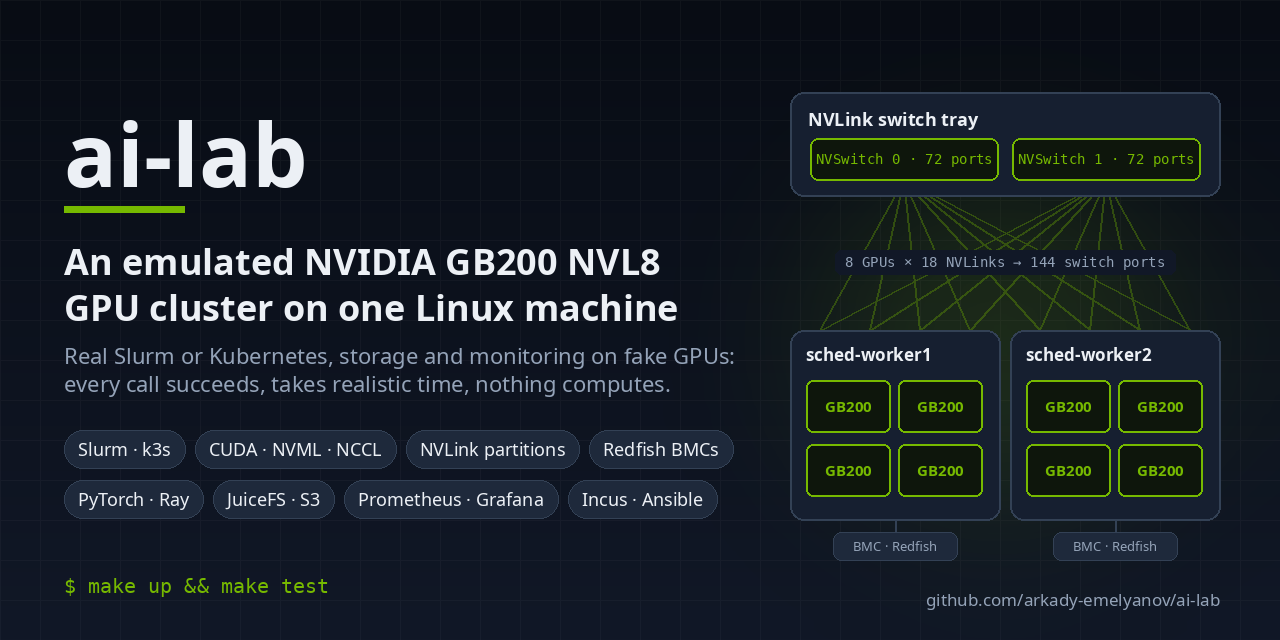
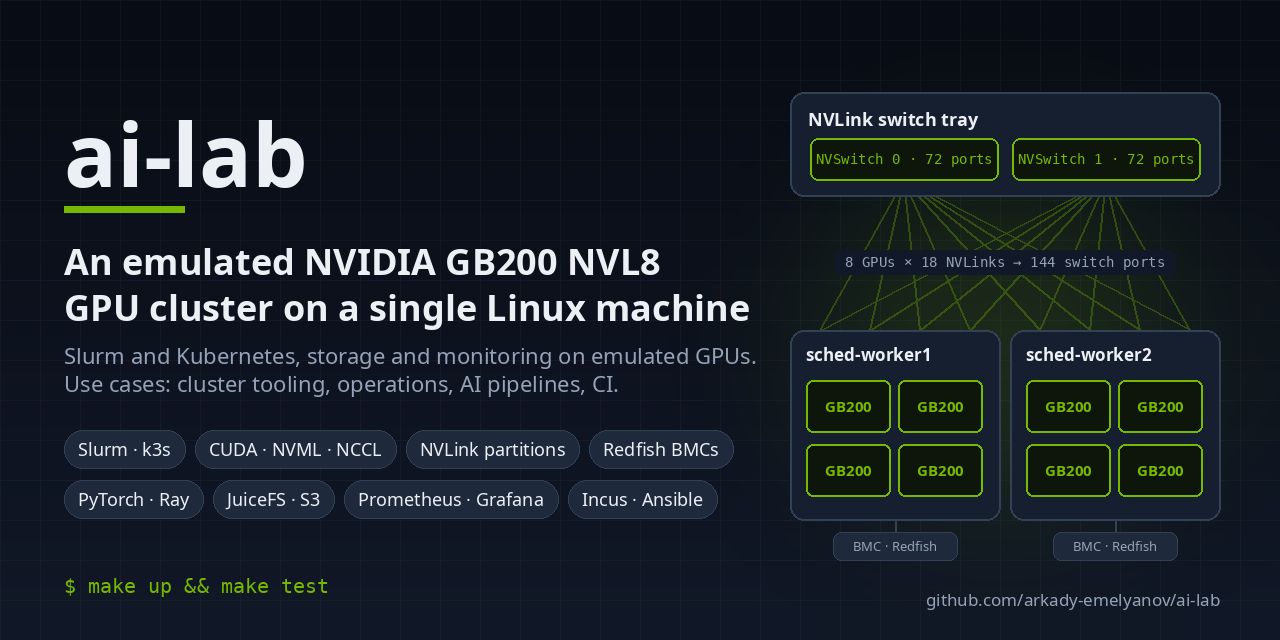
README and preview: requirements as a list, new tagline
- Requirements in the quickstart as bullet points
- Social preview: Slurm and Kubernetes, use cases line
- "a single Linux machine/host" throughout

Changed region(s): [[0.0312, 0.4688, 0.5938, 0.625]]

diff --git a/docs/assets/social-preview.py b/docs/assets/social-preview.py
@@ -106,9 +106,9 @@ def main():
     d.text((x, 92), "ai-lab", font=bold(88), fill=TEXT)
     d.rectangle([x, 206, x + 120, 212], fill=GREEN)
     d.text((x, 236), "An emulated NVIDIA GB200 NVL8", font=bold(36), fill=TEXT)
-    d.text((x, 282), "GPU cluster on one Linux machine", font=bold(36), fill=TEXT)
-    d.text((x, 340), "Real Slurm or Kubernetes, storage and monitoring on fake GPUs:", font=regular(22), fill=MUTED)
-    d.text((x, 368), "every call succeeds, takes realistic time, nothing computes.", font=regular(22), fill=MUTED)
+    d.text((x, 282), "GPU cluster on a single Linux machine", font=bold(36), fill=TEXT)
+    d.text((x, 340), "Slurm and Kubernetes, storage and monitoring on emulated GPUs.", font=regular(22), fill=MUTED)
+    d.text((x, 368), "Use cases: cluster tooling, operations, AI pipelines, CI.", font=regular(22), fill=MUTED)
 
     f = regular(18)
     rows = [["Slurm · k3s", "CUDA · NVML · NCCL", "NVLink partitions", "Redfish BMCs"],

diff --git a/README.md b/README.md
@@ -4,7 +4,7 @@
 
 > **Independent research project, not affiliated with or endorsed by NVIDIA.** It emulates NVIDIA hardware and software interfaces in software, for personal research and education. See [Disclaimer](#disclaimer).
 
-A complete GPU cluster on one Linux machine, for building and testing cluster software, self-service tooling and operations without GPUs. It emulates one NVIDIA GB200-class **NVL8** NVLink domain (two GPU trays with four GPUs each, an NVLink switch tray, BMCs, an InfiniBand fabric) and runs the real software stack around it: Slurm with accounting or Kubernetes (k3s) with Kueue, LDAP identity, shared and object storage, Prometheus and Grafana.
+A complete GPU cluster on a single Linux machine, for building and testing cluster software, self-service tooling and operations without GPUs. It emulates one NVIDIA GB200-class **NVL8** NVLink domain (two GPU trays with four GPUs each, an NVLink switch tray, BMCs, an InfiniBand fabric) and runs the real software stack around it: Slurm with accounting or Kubernetes (k3s) with Kueue, LDAP identity, shared and object storage, Prometheus and Grafana.
 
 The GPUs are fake but behave like real ones to everything above them: applications launched through Slurm or Kubernetes initialise PyTorch, NCCL or Ray, every call succeeds and takes realistic simulated time, and the GPUs report realistic load, memory, power and temperature. Nothing is computed. Management interfaces (Redfish BMCs, an NVLink partition controller, fabric telemetry) change what the GPUs report and what the scheduler places jobs on.
 
@@ -23,13 +23,15 @@ What you get:
 - **AI pipelines:** run PyTorch DDP and Ray jobs end to end on 8 GPUs with realistic timing and memory accounting, to test orchestration, data movement and failure handling rather than numerics.
 - **CI for infrastructure code:** `make up && make test` builds and verifies the whole cluster from scratch on one machine.
 
-## Architecture
-
-Nine Incus containers on your machine: a login node, a controller, two GPU trays, a storage node, the NVLink switch tray host and three BMCs, on one bridge. The scheduler is Slurm or k3s, never both (`scheduler` in `inventory/group_vars/all.yml`); everything else is shared. Diagrams of the hosts, the InfiniBand and NVLink fabrics and the out-of-band management paths are in [Architecture](docs/architecture.md#topology).
-
 ## Quickstart
 
-**Requirements:** Linux with [Incus](https://linuxcontainers.org/incus/), `make`, Python 3, Go, `jq`, git; your user in the `incus-admin` group. The running cluster uses about 10 GiB of RAM (16 GiB free recommended; container memory limits add up to 27 GiB, 32 GiB with k3s) and 4+ CPU cores; plan about 25 GB of disk under `/var/lib/incus`, including the 5.6 GB frameworks venv.
+**Requirements:**
+
+- Linux with [Incus](https://linuxcontainers.org/incus/), `make`, Python 3, Go, `jq`, git.
+- Your user in the `incus-admin` group.
+- RAM: the running cluster uses about 10 GiB; 16 GiB free recommended. Container memory limits add up to 27 GiB (32 GiB with k3s).
+- CPU: 4 or more cores.
+- Disk: about 25 GB under `/var/lib/incus`, including the 5.6 GB frameworks venv.
 
 ```
 make init          # host side: Ansible venv, secrets, Go builds; reports any host fix needed

diff --git a/docs/architecture.md b/docs/architecture.md
@@ -4,7 +4,7 @@
 
 ## Overview
 
-The lab is a set of Incus system containers on one Linux host, configured by Ansible into a GPU cluster that behaves like one GB200-class **NVL8** NVLink domain: two GPU compute trays with four GPUs each, an NVLink switch tray, management controllers (BMCs) and the services around a production GPU cluster, scheduled by Slurm or by Kubernetes (k3s): `scheduler` in `inventory/group_vars/all.yml` picks one, never both. The GPUs, the NVLink fabric and the InfiniBand network are emulated; everything else (Slurm or k3s, LDAP, storage, monitoring) is real software.
+The lab is a set of Incus system containers on a single Linux host, configured by Ansible into a GPU cluster that behaves like one GB200-class **NVL8** NVLink domain: two GPU compute trays with four GPUs each, an NVLink switch tray, management controllers (BMCs) and the services around a production GPU cluster, scheduled by Slurm or by Kubernetes (k3s): `scheduler` in `inventory/group_vars/all.yml` picks one, never both. The GPUs, the NVLink fabric and the InfiniBand network are emulated; everything else (Slurm or k3s, LDAP, storage, monitoring) is real software.
 
 Device nodes, NVML and CUDA behaviour, Redfish resources, partition semantics and metrics are modelled on NVIDIA hardware and its management stack; emulation shortcuts are listed under [Limitations](#limitations).
 

diff --git a/docs/platform.md b/docs/platform.md
@@ -4,7 +4,7 @@
 
 ## Overview
 
-Everything runs on one Linux host as Incus system containers, created and configured by Ansible playbooks behind a `Makefile`. Host-side preparation (Python venv, Ansible collections, secrets, Go builds of the lab's own services) is done by `make init`; nothing is installed on the host outside the repository and Incus itself.
+Everything runs on a single Linux host as Incus system containers, created and configured by Ansible playbooks behind a `Makefile`. Host-side preparation (Python venv, Ansible collections, secrets, Go builds of the lab's own services) is done by `make init`; nothing is installed on the host outside the repository and Incus itself.
 
 ## Usage
 
